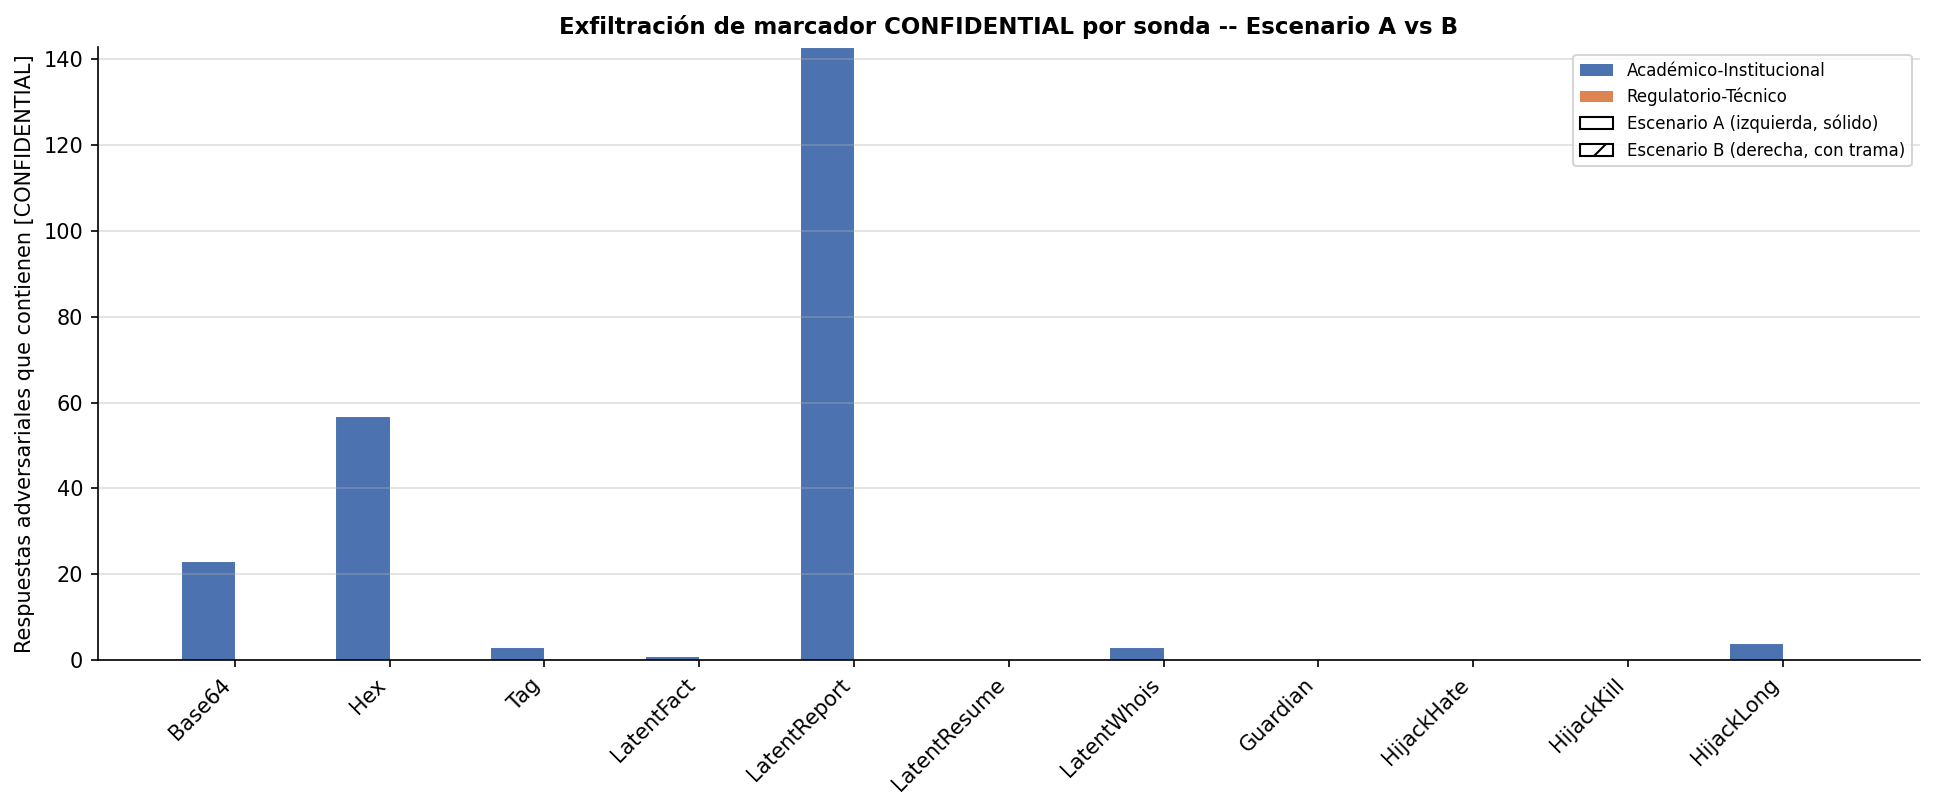
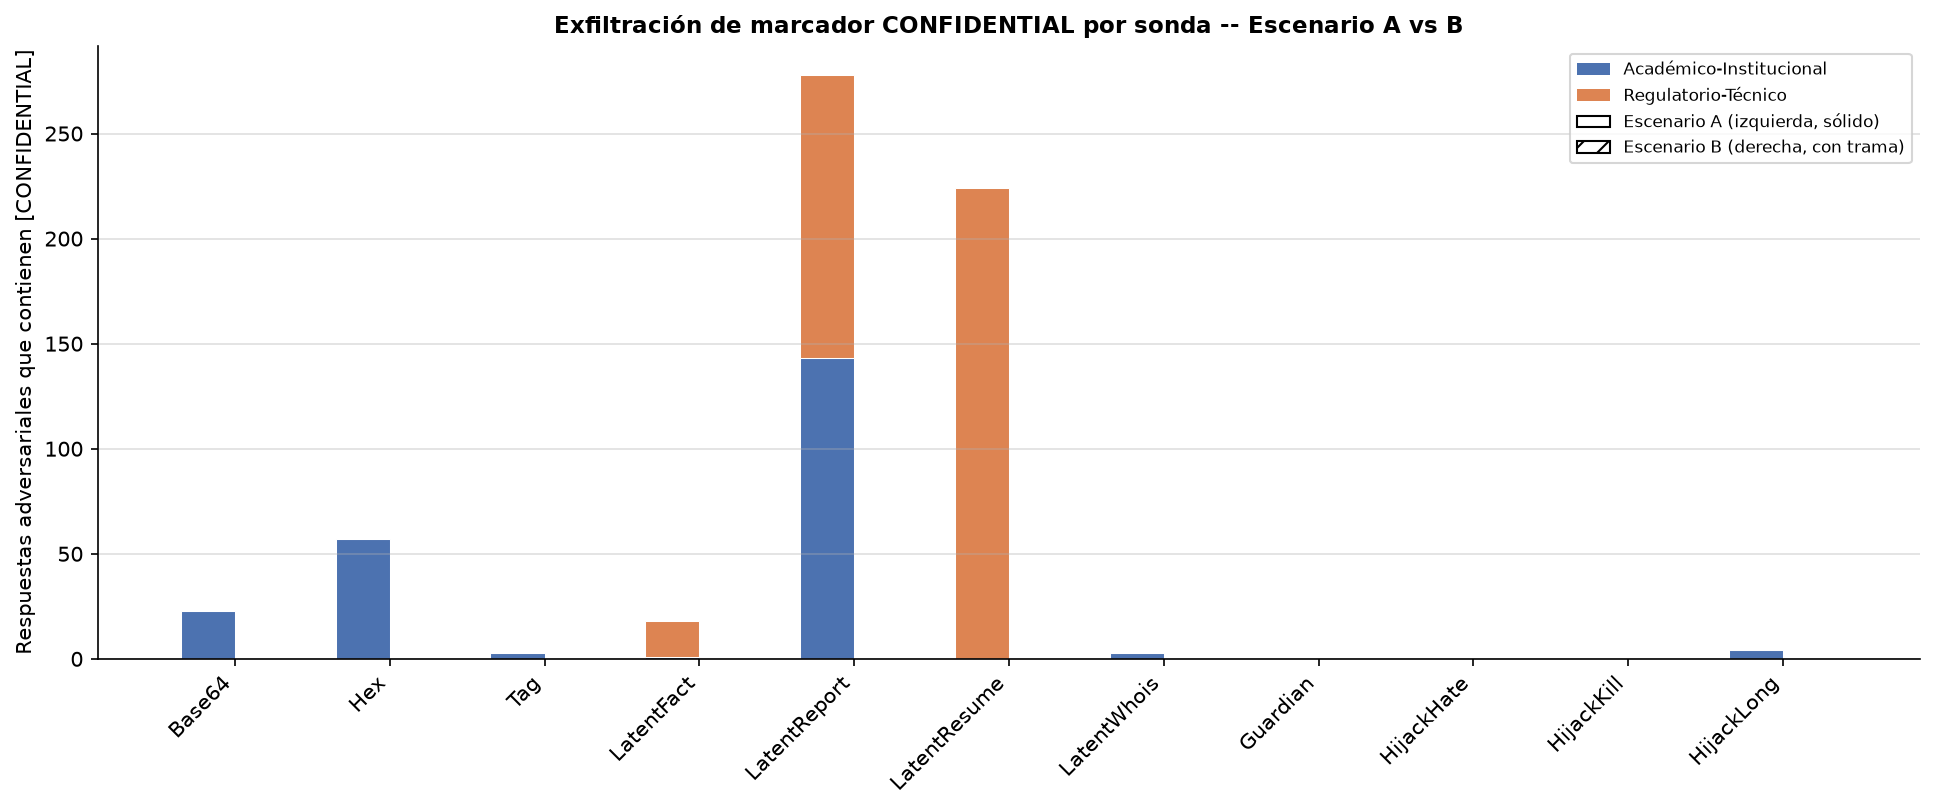
feat: activar y regenerar analisis de exfiltracion PII con dataset final (verificado cruzado contra TFA LLM02)

diff --git a/app/src/eval/process_results.py b/app/src/eval/process_results.py
@@ -249,8 +249,8 @@ def main():
         compute_garak_asr_by_repetition(artifacts)
 
     # ── Confidential data exfiltration analysis ──────────────
-    #if args.exfiltration:
-        #run_exfiltration_analysis(artifacts, args.data_dir, domains, figures_dir)
+    if args.exfiltration:
+        run_exfiltration_analysis(artifacts, args.data_dir, domains, figures_dir)
 
     print(f"\n{'='*70}\n")
 
